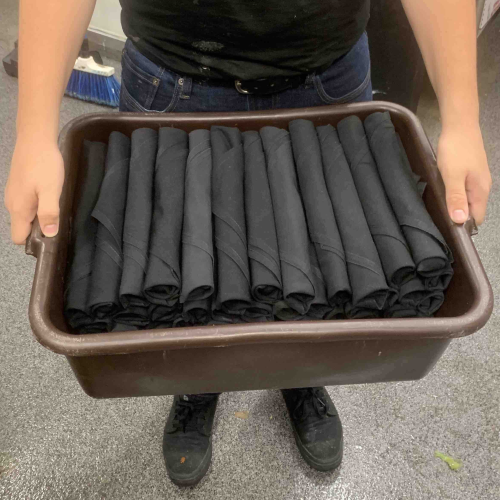
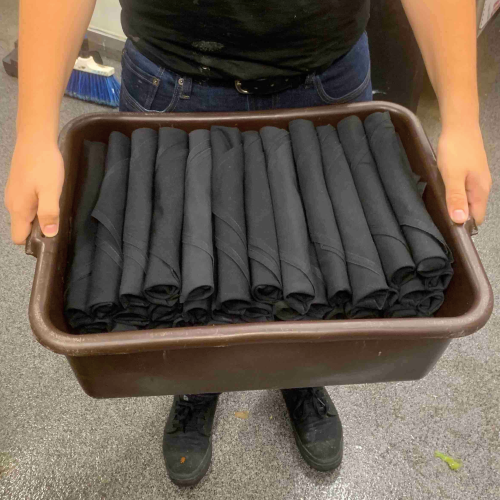
Added missing images and completed sweeping key

Changed region(s): [[0.03, 0.0, 0.15, 0.36], [0.87, 0.0, 0.96, 0.21], [0.87, 0.9, 0.9, 0.93]]

diff --git a/pages/silverbin.html b/pages/silverbin.html
@@ -103,7 +103,7 @@
         <h2 class="accordion-header" id="headingFour">
           <button class="accordion-button collapsed" type="button" data-bs-toggle="collapse"
             data-bs-target="#collapseFour" aria-expanded="false" aria-controls="collapseFour">
-            Roll 5 rows (~50) into a bin.
+            Roll 5 rows of 12 (60 total) into a bin.
           </button>
         </h2>
         <div id="collapseFour" class="accordion-collapse collapse" aria-labelledby="headingFour"
@@ -112,19 +112,16 @@
             Bins can be found in dry storage, and here is a visual, step-by-step, guide to rolling:
             <br />
             <h6 class="fw-bold mt-3">1</h6>
-            <img src="../assets/img/test_photo_500x500.png" class="img-fluid rounded" />
+            <img src="../assets/img/Step1.png" class="img-fluid rounded" />
 
             <h6 class="fw-bold mt-3">2</h6>
-            <img src="../assets/img/test_photo_500x500.png" class="img-fluid rounded" />
+            <img src="../assets/img/Step2.png" class="img-fluid rounded" />
 
             <h6 class="fw-bold mt-3">3</h6>
-            <img src="../assets/img/test_photo_500x500.png" class="img-fluid rounded" />
+            <img src="../assets/img/Step3.png" class="img-fluid rounded" />
 
             <h6 class="fw-bold mt-3">4</h6>
-            <img src="../assets/img/test_photo_500x500.png" class="img-fluid rounded" />
-
-            <h6 class="fw-bold mt-3">5</h6>
-            <img src="../assets/img/test_photo_500x500.png" class="img-fluid rounded" />
+            <img src="../assets/img/Step4.png" class="img-fluid rounded" />
           </div>
         </div>
       </div>

diff --git a/pages/silver.html b/pages/silver.html
@@ -111,19 +111,16 @@
             Here is a visual, step-by-step, guide:
             <br />
             <h6 class="fw-bold mt-3">1</h6>
-            <img src="../assets/img/test_photo_500x500.png" class="img-fluid rounded" />
+            <img src="../assets/img/Step1.png" class="img-fluid rounded" />
 
             <h6 class="fw-bold mt-3">2</h6>
-            <img src="../assets/img/test_photo_500x500.png" class="img-fluid rounded" />
+            <img src="../assets/img/Step2.png" class="img-fluid rounded" />
 
             <h6 class="fw-bold mt-3">3</h6>
-            <img src="../assets/img/test_photo_500x500.png" class="img-fluid rounded" />
+            <img src="../assets/img/Step3.png" class="img-fluid rounded" />
 
             <h6 class="fw-bold mt-3">4</h6>
-            <img src="../assets/img/test_photo_500x500.png" class="img-fluid rounded" />
-
-            <h6 class="fw-bold mt-3">5</h6>
-            <img src="../assets/img/test_photo_500x500.png" class="img-fluid rounded" />
+            <img src="../assets/img/Step4.png" class="img-fluid rounded" />
           </div>
         </div>
       </div>

diff --git a/pages/trays.html b/pages/trays.html
@@ -22,7 +22,7 @@
     <hr />
 
     <!-- Image -->
-    <img src="../assets/img/test_photo_500x500.png" class="rounded img-fluid mb-5" />
+    <img src="../assets/img/Trays.png" class="rounded img-fluid mb-5" />
 
     <!-- Instructions -->
 
@@ -53,7 +53,7 @@
               After cleaning you can place them above the expo stations like so:
               <br />
               <br />
-              <img src="../assets/img/test_photo_500x500.png" class="rounded img-fluid">
+              <img src="../assets/img/Largetrays.png" class="rounded img-fluid">
             </div>
           </div>
         </div>

diff --git a/pages/sweeping.html b/pages/sweeping.html
@@ -21,7 +21,7 @@
     <hr />
 
     <!-- Image -->
-    <img src="../assets/img/test_photo_500x500.png" class="rounded img-fluid mb-5" />
+    <img src="../assets/img/Sweeping.png" class="rounded img-fluid mb-5" />
     <!-- Instructions -->
     <div>
 

diff --git a/pages/restockbottom.html b/pages/restockbottom.html
@@ -22,7 +22,7 @@
     <hr />
 
     <!-- Image -->
-    <img src="../assets/img/test_photo_500x500.png" class="rounded img-fluid mb-5" />
+    <img src="../assets/img/RestockBottom.png" class="rounded img-fluid mb-5" />
 
     <!-- Instructions -->
 

diff --git a/pages/closing.html b/pages/closing.html
@@ -22,7 +22,7 @@
     <hr />
 
     <!-- Image -->
-    <img src="../assets/img/test_photo_500x500.png" class="rounded img-fluid mb-5" />
+    <img src="../assets/img/Closers.png" class="rounded img-fluid mb-5" />
 
     <!-- Instructions -->
 

diff --git a/pages/100spos.html b/pages/100spos.html
@@ -23,7 +23,7 @@
     <hr />
 
     <!-- Image -->
-    <img src="../assets/img/test_photo_500x500.png" class="rounded img-fluid mb-5" />
+    <img src="../assets/img/100POS.png" class="rounded img-fluid mb-5" />
 
     <!-- Instructions -->
 

diff --git a/pages/300spos.html b/pages/300spos.html
@@ -22,7 +22,7 @@
     <hr />
 
     <!-- Image -->
-    <img src="../assets/img/test_photo_500x500.png" class="rounded img-fluid mb-5" />
+    <img src="../assets/img/300POS.png" class="rounded img-fluid mb-5" />
 
     <!-- Instructions -->
 

diff --git a/pages/sodastation1.html b/pages/sodastation1.html
@@ -22,7 +22,7 @@
     <hr />
 
     <!-- Image -->
-    <img src="../assets/img/test_photo_500x500.png" class="rounded img-fluid mb-5" />
+    <img src="../assets/img/Soda1.png" class="rounded img-fluid mb-5" />
 
     <!-- Instructions -->
 

diff --git a/pages/sodastation2.html b/pages/sodastation2.html
@@ -22,7 +22,7 @@
     <hr />
 
     <!-- Image -->
-    <img src="../assets/img/test_photo_500x500.png" class="rounded img-fluid mb-5" />
+    <img src="../assets/img/Soda2.png" class="rounded img-fluid mb-5" />
 
     <!-- Instructions -->
 

diff --git a/pages/opening.html b/pages/opening.html
@@ -21,7 +21,7 @@
   <hr />
 
   <!-- Image -->
-  <img src="../assets/img/test_photo_500x500.png" class="rounded img-fluid mb-5" />
+  <img src="../assets/img/Opening.png" class="rounded img-fluid mb-5" />
 
   <!-- Instructions -->
 
